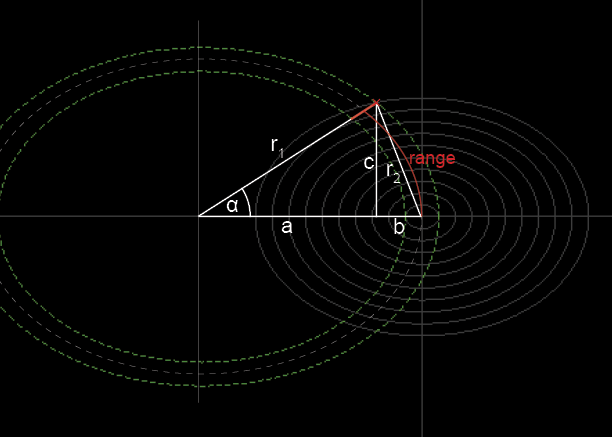
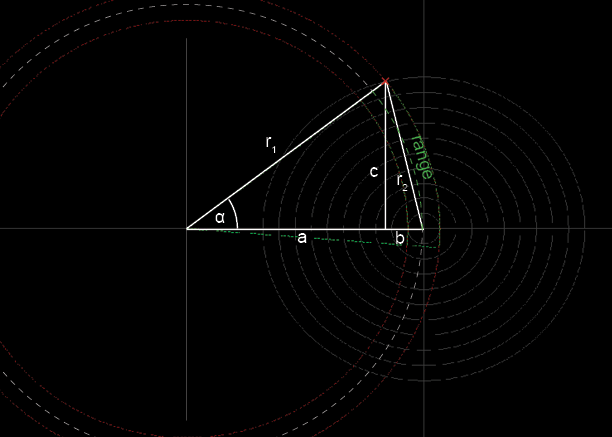
Added documentation for the detection of samples blocking the vision behind them and changed previous description images.

diff --git a/README.md b/README.md
@@ -191,7 +191,62 @@ The driving range for a curved path with `turnRadius r1`, until a collision with
 4. For these selected points, the curve distance to the car is calculated via `distance = phi * r1`, where `phi` is the polar angle of a selected sample.
 5. The points with the shortest positive and negative `distance` determine the forward and backward collision range.
 
-### No Obstacles in Path
+### Obstacles Inside the Turn Circle
+![LineIntersection](image/LineIntersection.png  "LineIntersection")
+
+If there are no visible obstacles in the driving path but the sensor vision can be blocked by objects inside the turn circle. Therefore it cannot be guaranteed that the path behind these objects is free of obstacles and the collision range has to be limited by these objects.
+
+In this case the collision range can be calculated placing a line for every sample defined as
+```
+y = k*x + d
+``` 
+through the individual sample `(x1, y1)` and the location of the sensor, which is `(r, 0)` in the case of the image above. The slope of the line `k` has to be calculated for every sample generally via
+```
+k = (y1 - y2) / (x1 - x2)
+```
+or for the depictured example
+```
+k = y1 / (x1 - r)
+```
+which would yield a `k < 0`. The line which limits the driving path the most can be found by selecting the one with the highest or lowest slope, depending on the direction of the turn and forward or backward driving.
+
+Two lines for forward and and backward driving are selected like this and their offset `d` is then calculated via 
+```
+d = y - k*x
+```
+where `x` and `y` are the coordinates of the sample with which that lines slope was calculated.
+
+The intersections of this line with the turn circle can then be calculated by substituting the linear equation 
+```
+y = k*x + d
+```
+into the equation describing the turn circle
+```
+x*x + y*y = r*r
+```
+which leads to
+```
+x*x* + (k*x + d)*(k*x + d) = r*r
+```
+. This can be simplified to a standard quadratic equation of the form
+```
+a*x*x + b*x + c = 0
+```
+where
+```
+a = 1 + k*k
+b = 2*k*d
+c = d*d - r*r
+```
+. The two solutions to this equation are
+```
+x = (-b +- sqrt(b * b - 4 * a * c)) / (2 * a)
+```
+where the solution with a greater x value is the desired solution for a right turn and the smaller x value for a left turn. The y coordinate of the intersection point can then easily calculated by substition into the linear equation. 
+
+Finally the range can be calculated by converting the intersection point to polar coordinates and multiplying the angle (in radiants) with the `innerTurnRadius`.
+
+### No Obstacles
 ![CircleIntersection](image/CircleIntersection.png  "CircleIntersection")
 
 When the free range to drive for the car is not limited by an obstacle, but only by the current vision range, the range can be calculated by first finding the point of intersection of the turn circle with `outerTurnRadius r1` and the vision circle with `maxRange r2`. Actually only `a` is needed for further calculations, which can be easily obtained from the x coordinate of the point of intersection. With the pythagorean theorem of two right angled triangles
